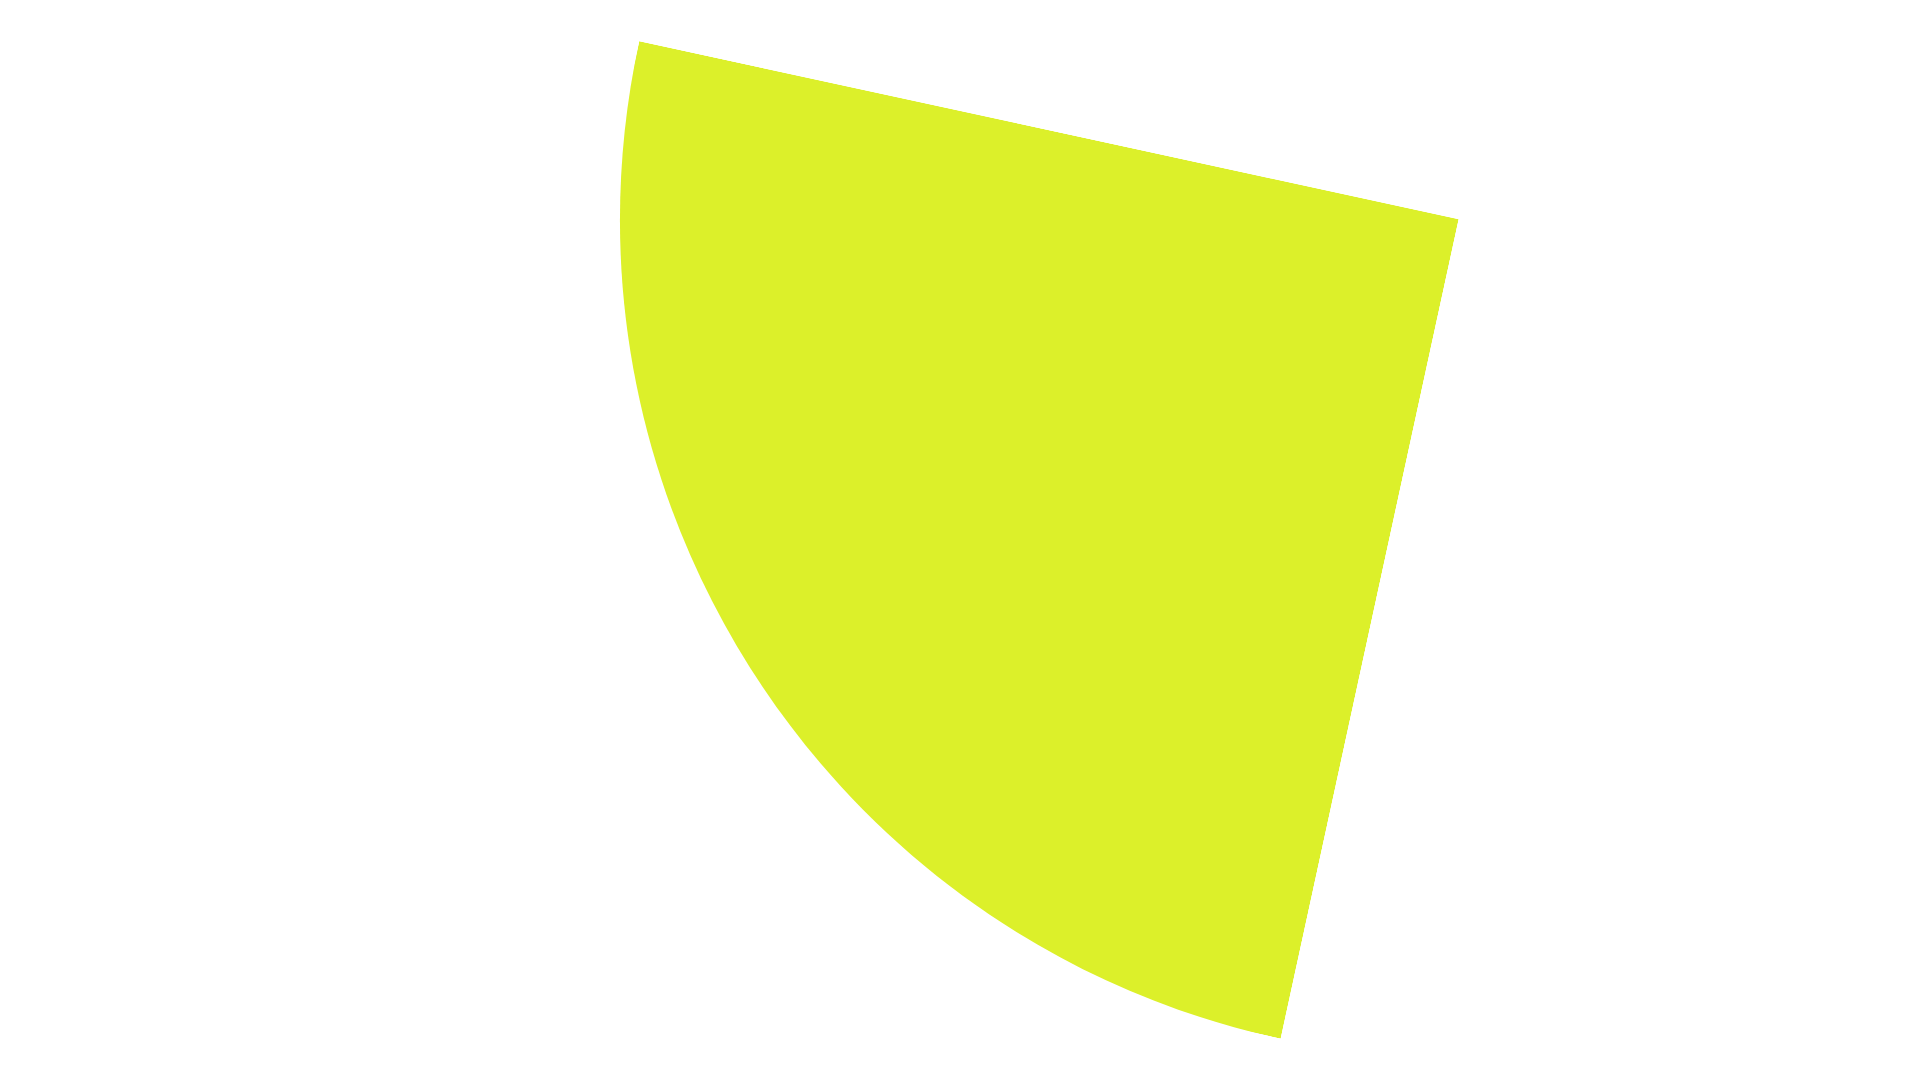
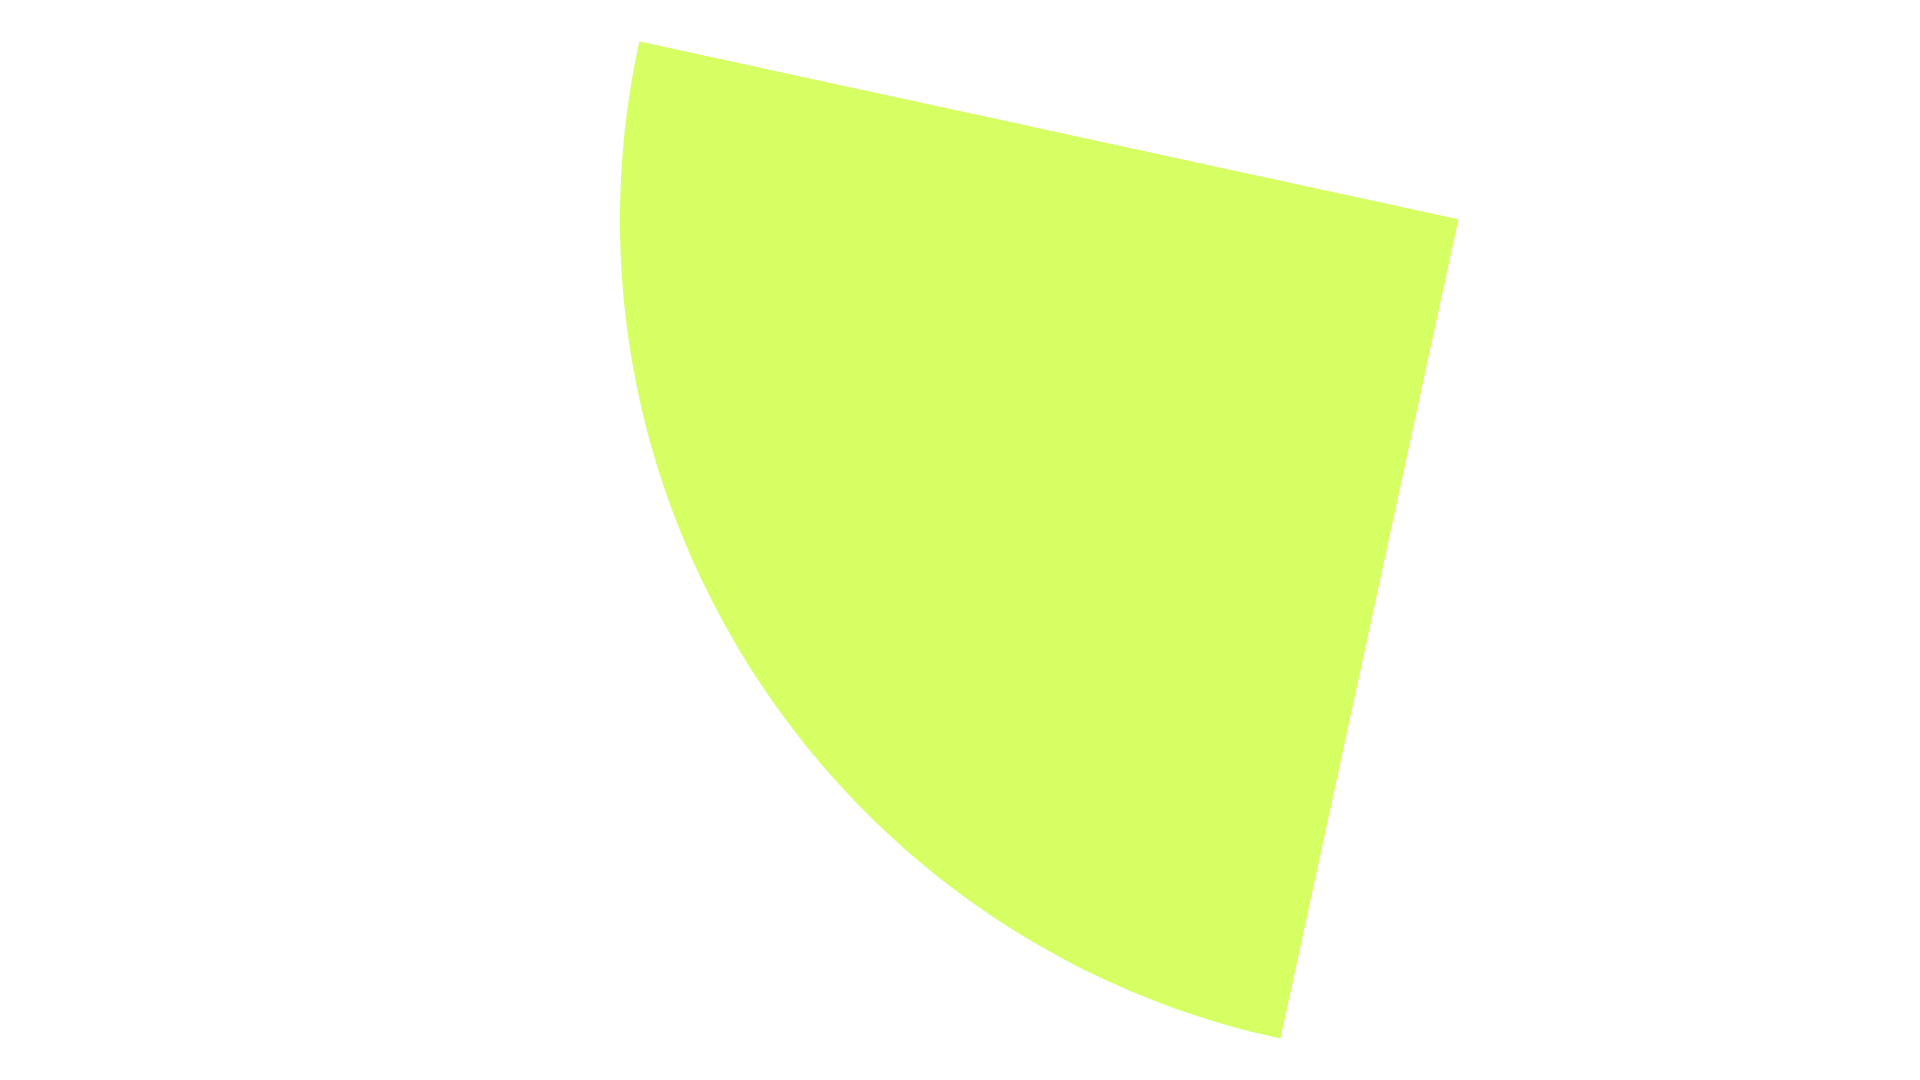
add produtos embaixo e mudança do main

Changed region(s): [[0.3125, 0.0306, 0.7812, 0.9778]]

diff --git a/teste.html b/teste.html
@@ -38,11 +38,100 @@
 
               </div>
               <div class="col">
-                <img src="img/chuteira.png" alt="" class="chuteira">
+                <img src="img/chuteira1.png" alt="" class="chuteira">
               </div>
             </div>
           </div>
     </div>
     
+    <section class="produto">
+        <h2 class="produto-categoria">Mais vendidos</h2>
+        <button class="pre-btn"><img src="img/arrow.png" alt="arrowback"></button>
+        <button class="nxt-btn"><img src="img/arrow.png" alt="arrownext"></button>
+
+        <div class="produto-container">
+          <div class="produto-card">
+            <div class="produto-img">
+              <span class="tag-desconto">30% off</span>
+              <img src="img/phantom-gt.png" alt="phantom" class="produto-thumb">
+              <button class="card-btn">Adicionar a lista de desejos</button>
+            </div>
+
+            <div class="produto-info">
+              <h2 class="produto-marca">phantom</h2>
+              <p class="produto-desc">Nike Phanotm GT</p>
+              <span class="preco">R$ 209</span><span class="preco-atual">299 R$</span>
+            </div>
+          </div>
+
+          <div class="produto-card">
+            <div class="produto-img">
+              <span class="tag-desconto">30% off</span>
+              <img src="img/hypervenom2017.png" alt="phantom" class="produto-thumb">
+              <button class="card-btn">Adicionar a lista de desejos</button>
+            </div>
+            <div class="produto-info">
+              <h2 class="produto-marca">hypervenom</h2>
+              <p class="produto-desc">Nike Hypervenom phelon II</p>
+              <span class="preco">R$ 145</span><span class="preco-atual">209 R$</span>
+            </div>
+          </div>
+
+          <div class="produto-card">
+            <div class="produto-img">
+              <span class="tag-desconto">30% off</span>
+              <img src="img/victory6.png" alt="phantom" class="produto-thumb">
+              <button class="card-btn">Adicionar a lista de desejos</button>
+            </div>
+            <div class="produto-info">
+              <h2 class="produto-marca">mercurial</h2>
+              <p class="produto-desc">Nike mercurial victory 6</p>
+              <span class="preco">R$ 145</span><span class="preco-atual">209 R$</span>
+            </div>
+          </div>
+
+          <div class="produto-card">
+            <div class="produto-img">
+              <span class="tag-desconto">30% off</span>
+              <img src="img/vapor13.png" alt="phantom" class="produto-thumb">
+              <button class="card-btn">Adicionar a lista de desejos</button>
+            </div>
+            <div class="produto-info">
+              <h2 class="produto-marca">mercurial</h2>
+              <p class="produto-desc">Nike mercurial vapor 13</p>
+              <span class="preco">R$ 209</span><span class="preco-atual">299 R$</span>
+            </div>
+          </div>
+
+          <div class="produto-card">
+            <div class="produto-img">
+              <span class="tag-desconto">30% off</span>
+              <img src="img/km.png" alt="phantom" class="produto-thumb">
+              <button class="card-btn">Adicionar a lista de desejos</button>
+            </div>
+            <div class="produto-info">
+              <h2 class="produto-marca">mercurial</h2>
+              <p class="produto-desc">Nike mercurial vapor KM</p>
+              <span class="preco">R$ 209</span><span class="preco-atual">299 R$</span>
+            </div>
+          </div>
+
+
+          <div class="produto-card">
+            <div class="produto-img">
+              <span class="tag-desconto">30% off</span>
+              <img src="img/km.png" alt="phantom" class="produto-thumb">
+              <button class="card-btn">Adicionar a lista de desejos</button>
+            </div>
+            <div class="produto-info">
+              <h2 class="produto-marca">mercurial</h2>
+              <p class="produto-desc">Nike mercurial vapor KM</p>
+              <span class="preco">R$ 209</span><span class="preco-atual">299 R$</span>
+            </div>
+          </div>
+        </div>
+    </section>
+
+    <script src="js.js"></script>
 </body>
 </html>

diff --git a/style.css b/style.css
@@ -39,7 +39,7 @@ li{
     display: flex;
     justify-content: center;
     align-items: center;
-    margin-top: 8%;
+    margin-top: 10%;
 }
 h1{
     font-weight: 800;
@@ -48,7 +48,7 @@ h1{
     margin-top: -70px;
 }
 h1 .vapor{
-    color: rgb(220, 240, 43);
+    color: #d5ff62;
     font-family: 'Alexandria', sans-serif;
 }
 p{
@@ -57,16 +57,17 @@ p{
     letter-spacing: .1em;
 }
 p .speed{
-    color: rgb(211, 231, 27);
+    color: #abe211;
     font-weight: 800;
 }
 .chuteira{
-    max-width: 100%; 
+    max-width: 90%; 
     height: auto;
     transform: rotate(-25deg); 
+    margin-top: -90px;
 }
 .btn{
-    background-color: rgb(220, 240, 43);
+    background-color: #d5ff62;
     width: 200px;
     height: 60px;
     border-radius: 25px;
@@ -76,21 +77,213 @@ p .speed{
 
 }
 .btn:hover{
-    background-color: rgb(204, 212, 88);
+    background-color: #d5ff62;
 }
 .insta{
     width: 55px;
     height: 30px;
     cursor: pointer;
     padding-left: 25px;
+    margin-top: 20px;
 }
 .x{
     width: 42px;
     height: 42px;
     cursor: pointer;
+    margin-top: 20px;
 }
 .face{
     width: 38px;
     height: 38px;
     cursor: pointer;
+    margin-top: 20px;
+}
+
+/*carrosel de produtos*/
+
+.produto{
+    position: relative; 
+    overflow: hidden;
+    padding: 20px;
+    margin-top: 30px;   
+}
+
+.produto-categoria{
+    padding: 0 10vw;
+    font-size: 30px;
+    font-weight: 500;
+    margin-bottom: 20px;
+    text-transform: capitalize;
+}
+
+.produto-container{
+    padding: 0 10vw;
+    display: flex;
+    overflow-x: auto;
+    scroll-behavior: smooth;
+}
+
+.produto-container::-webkit-scrollbar{
+    display: none;
+}
+
+.produto-card{
+    flex: 0 0 auto;
+    width: 250px;
+    margin-right: 80px;
+}
+.produto-card:hover{
+    cursor: pointer;
+    background-color: #3d3d3d;
+    color: #fff;
+    border-radius: 16px;
+}
+
+.produto-img{
+    position: relative;
+    width: 100%;
+    height: 170px;
+}
+
+.produto-thumb{
+    width: 100%;
+    height: 100%;
+    object-fit: contain;
+}
+
+.tag-desconto{
+    position: absolute;
+    background: #fff;
+    padding: 5px;
+    border-radius: 5px;
+    color: rgb(0, 0, 0);
+    right: 10px;
+    top: 10px;
+    text-transform: capitalize;
+    font-weight: 600;
+}
+
+.card-btn{
+    position: absolute;
+    bottom: 10px;
+    left: 50%;
+    transform: translateX(-50%);
+    padding: 10px;
+    width: 90%;
+    text-transform: uppercase;
+    border: none;
+    outline: none;
+    background: #fff;
+    border-radius: 5px;
+    transition: 0.5s;
+    cursor: pointer;
+    opacity: 0;
+    border-radius: 16px;
+}
+
+.produto-card:hover .card-btn{
+    opacity: 1;
+}
+
+.card-btn:hover{
+    background: rgb(255, 255, 255);
+    color: #000000;
+}
+
+.produto-info{
+    width: 100%;
+    padding-top: 10px;
+}
+
+.produto-marca{
+    text-transform: uppercase;
+}
+
+.produto-desc{
+    width: 100%;
+    height: 20px;
+    line-height: 20px;
+    overflow: hidden;
+    opacity: 0.5;
+    text-transform: capitalize;
+    margin: 5px 0;
+}
+
+.preco{
+    font-weight: 900;
+    font-size: 20px;
+}
+
+.preco-atual{
+    margin-left: 20px;
+    opacity: 0.5;
+    text-decoration: line-through;
+}
+
+.pre-btn,
+.nxt-btn {
+    border: none;
+    width: 10vw;
+    height: 100%;
+    position: absolute;
+    top: 0;
+    display: flex;
+    justify-content: center;
+    align-items: center;
+    background: transparent;
+    cursor: pointer;
+    z-index: 9;
+    
+}
+
+.pre-btn{
+    left: 0;
+    transform: rotate(180deg);
+}
+
+.nxt-btn{
+    right: 0;
+}
+
+.pre-btn img,
+.nxt-btn img {
+    opacity: 0.2;
+}
+
+.pre-btn:hover img,
+.nxt-btn:hover img {
+    opacity: 1;
+}
+
+.collection-container{
+    width: 100%;
+    display: grid;
+    grid-template-columns: repeat(2, 1fr);
+    grid-gap: 10px;
+}
+
+.collection{
+    position: relative;
+}
+
+.collection img {
+    width: 100%;
+    height: 100%;
+    object-fit: cover;
+}
+
+.collection p {
+    position: absolute;
+    top: 50%;
+    left: 50%;
+    transform: translate(-50%, -50%);
+    text-align: center;
+    color: #fff;
+    font-size: 50px;
+    text-transform: capitalize;
+}
+
+.collection:nth-child(3){
+    grid-column: span 2;
+    margin-bottom: 10px;
 }
